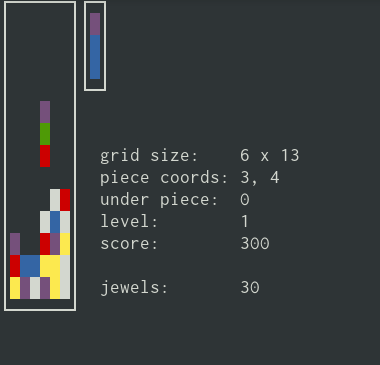
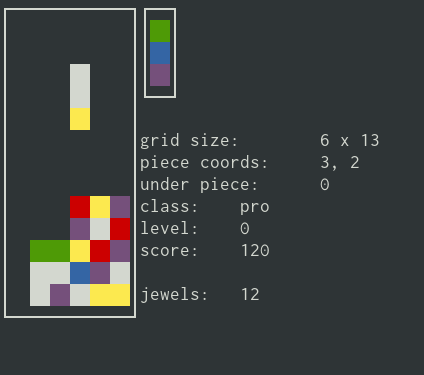
Double the graphics width

diff --git a/src/gfx.c b/src/gfx.c
@@ -1,136 +1,124 @@
 #include "gfx.h"
 
-WINDOW *setup_gfx(void)
-{
-	WINDOW *win = initscr();
-	if (win == NULL) {
-		perror("Couldn't create a window");
-		exit(EXIT_FAILURE);
-	}
-	cbreak();
-	noecho();
-	clear();
-	keypad(win, true);
-	nodelay(win, true);
-	curs_set(0);
+WINDOW *setup_gfx(void) {
+    WINDOW *win = initscr();
+    if (win == NULL) {
+        perror("Couldn't create a window");
+        exit(EXIT_FAILURE);
+    }
+    cbreak();
+    noecho();
+    clear();
+    keypad(win, true);
+    nodelay(win, true);
+    curs_set(0);
 
-	// Colors
-	start_color();
-	init_pair(0, COLOR_BLACK, COLOR_BLACK);
-	init_pair(1, COLOR_MAGENTA, COLOR_MAGENTA);
-	init_pair(2, COLOR_WHITE, COLOR_WHITE);
-	init_pair(3, COLOR_BLUE, COLOR_BLUE);
-	init_pair(4, COLOR_RED, COLOR_RED);
-	init_pair(5, COLOR_GREEN, COLOR_GREEN);
-	init_pair(6, COLOR_YELLOW, COLOR_YELLOW);
+    // Colors
+    start_color();
+    init_pair(0, COLOR_BLACK, COLOR_BLACK);
+    init_pair(1, COLOR_MAGENTA, COLOR_MAGENTA);
+    init_pair(2, COLOR_WHITE, COLOR_WHITE);
+    init_pair(3, COLOR_BLUE, COLOR_BLUE);
+    init_pair(4, COLOR_RED, COLOR_RED);
+    init_pair(5, COLOR_GREEN, COLOR_GREEN);
+    init_pair(6, COLOR_YELLOW, COLOR_YELLOW);
 
-	return win;
+    return win;
 }
 
-void teardown_gfx()
-{
-	endwin();
+void teardown_gfx() {
+    endwin();
 }
 
-static void draw_rect(int x1, int y1, int x2, int y2)
-{
-	mvhline(y1, x1, 0, x2 - x1);
-	mvhline(y2, x1, 0, x2 - x1);
-	mvvline(y1, x1, 0, y2 - y1);
-	mvvline(y1, x2, 0, y2 - y1);
-	mvaddch(y1, x1, ACS_ULCORNER);
-	mvaddch(y2, x1, ACS_LLCORNER);
-	mvaddch(y1, x2, ACS_URCORNER);
-	mvaddch(y2, x2, ACS_LRCORNER);
-	;
+static void draw_rect(int x1, int y1, int x2, int y2) {
+    mvhline(y1, x1, 0, x2 - x1);
+    mvhline(y2, x1, 0, x2 - x1);
+    mvvline(y1, x1, 0, y2 - y1);
+    mvvline(y1, x2, 0, y2 - y1);
+    mvaddch(y1, x1, ACS_ULCORNER);
+    mvaddch(y2, x1, ACS_LLCORNER);
+    mvaddch(y1, x2, ACS_URCORNER);
+    mvaddch(y2, x2, ACS_LRCORNER);
 }
 
-void draw_grid_jewels(const struct grid *gr, int x, int y)
-{
-	for (int i = 0; i < gr->size; i++) {
-		div_t d = div(i, gr->cols);
-		int jwl = gr->cells[i];
-		attron(COLOR_PAIR(jwl));
-		mvaddch(y + d.quot, x + d.rem, (jwl) ? jwl + '0' : ' ');
-		attroff(COLOR_PAIR(jwl));
-	}
+void draw_grid_jewels(const struct grid *gr, int x, int y) {
+    for (int i = 0; i < gr->size; i++) {
+        div_t d = div(i, gr->cols);
+        int jwl = gr->cells[i];
+        attron(COLOR_PAIR(jwl));
+        mvaddch(y + d.quot, x + d.rem * 2, (jwl) ? jwl + '0' : ' ');
+        mvaddch(y + d.quot, x + d.rem * 2 + 1, (jwl) ? jwl + '0' : ' ');
+        attroff(COLOR_PAIR(jwl));
+    }
 }
 
-void draw_grid(struct grid *gr, int offset_x, int offset_y)
-{
-	draw_rect(offset_x, offset_y, gr->cols + 1, gr->rows + 1);
+void draw_piece(struct piece *pc, int offset_x, int offset_y) {
+    for (int i = 0; i < PIECE_SIZE; i++) {
+        int y0 = pc->row + i;
+        if (y0 >= -1) {
+            enum color jwl = pc->colors[i];
+            attron(COLOR_PAIR(jwl));
+            mvaddch(offset_y + y0, offset_x + pc->col * 2, jwl + '0');
+            mvaddch(offset_y + y0, offset_x + pc->col * 2 + 1, jwl + '0');
+            attroff(COLOR_PAIR(jwl));
+        }
+    }
 }
 
-void draw_piece(struct piece *pc, int offset_x, int offset_y)
-{
-	for (int i = 0; i < PIECE_SIZE; i++) {
-		int y0 = pc->row + i;
-		if (y0 >= -1) {
-			enum color jwl = pc->colors[i];
-			attron(COLOR_PAIR(jwl));
-			mvaddch(offset_y + y0, offset_x + pc->col, jwl + '0');
-			attroff(COLOR_PAIR(jwl));
-		}
-	}
+void draw_frame(struct game *gm, int offset_x, int offset_y) {
+    draw_rect(offset_x, offset_y, gm->grid->cols * 2 + 1,
+              gm->grid->rows + 1);
+    int x = (offset_x + gm->grid->cols + 1) * 2;
+    draw_rect(x, offset_y, x + 2 + 1, offset_y + 4);
 }
 
-void draw_frame(struct game *gm, int offset_x, int offset_y)
-{
-	int x = offset_x + gm->grid->cols + 2;
-	draw_grid(gm->grid, offset_x, offset_y);
-	draw_rect(x, offset_y, x + 2, offset_y + 4);
+void draw_game(struct game *gm, int offset_x, int offset_y) {
+    struct grid *gr = gm->grid;
+
+    draw_grid_jewels(gr, offset_x + 1, offset_y + 1);
+    draw_piece(&gm->next_piece, offset_x + gr->cols * 2 + 1 + 2, offset_y + 1);
 }
 
-void draw_game(struct game *gm, int offset_x, int offset_y)
-{
-	struct grid *gr = gm->grid;
-
-	draw_grid_jewels(gr, offset_x + 1, offset_y + 1);
-	draw_piece(&gm->next_piece, offset_x + gr->cols + 3, offset_y + 1);
+void draw_stars(const uint8_t *result, struct grid *gr, int x, int y) {
+    for (int i = 0; i < gr->size; i++) {
+        div_t d = div(i, gr->cols);
+        if (result[i]) {
+            mvaddch(y + d.quot + 1, x + d.rem * 2 + 1, '[');
+            mvaddch(y + d.quot + 1, x + d.rem * 2 + 2, ']');
+        }
+    }
 }
 
-void draw_stars(const uint8_t *result, struct grid *gr, int x, int y)
-{
-	for (int i = 0; i < gr->size; i++) {
-		div_t d = div(i, gr->cols);
-		int clr = result[i];
-		if (clr) {
-			mvaddch(y + d.quot + 1, x + d.rem + 1, '*');
-		}
-	}
-}
+void draw_debug(struct game *g, int x, int y) {
+    struct piece pc = g->current_piece;
 
-void draw_debug(struct game *g, int x, int y)
-{
-	struct piece pc = g->current_piece;
-
-	mvprintw(y, x, "grid size:\t%d x %d ", g->grid->cols, g->grid->rows);
-	mvprintw(y + 1, x, "piece coords:\t%d, %d ", pc.col, pc.row);
-	int idx = g->grid->cols * (pc.row + PIECE_SIZE) + pc.col;
-	if (idx > 0 && idx < g->grid->cols * g->grid->rows) {
-		mvprintw(y + 2, x, "under piece:\t%d ", g->grid->cells[idx]);
-	}
-	switch ((enum game_class)g->color_max) {
-	case CLASS_NOVICE:
-		mvprintw(y + 3, x, "class:\tnovice");
-		break;
-	case CLASS_AMATEUR:
-		mvprintw(y + 3, x, "class:\tamateur");
-		break;
-	case CLASS_PRO:
-		mvprintw(y + 3, x, "class:\tpro");
-		break;
-	default:
-		mvprintw(y + 3, x, "class:\t???");
-		break;
-	}
-	mvprintw(y + 4, x, "level:\t%hu ", (unsigned short)g->level);
-	mvprintw(y + 5, x, "score:\t%lu ", (unsigned long)g->score);
-	if (g->last_score > 0) {
-		mvprintw(y + 6, x, "      \t+%lu ",
-			 (unsigned long)g->last_score);
-	} else {
-		mvprintw(y + 6, x, "      \t     ");
-	}
-	mvprintw(y + 7, x, "jewels:\t%lu ", (unsigned long)g->jewels_removed);
+    mvprintw(y, x, "grid size:\t%d x %d ", g->grid->cols, g->grid->rows);
+    mvprintw(y + 1, x, "piece coords:\t%d, %d ", pc.col, pc.row);
+    int idx = g->grid->cols * (pc.row + PIECE_SIZE) + pc.col;
+    if (idx > 0 && idx < g->grid->cols * g->grid->rows) {
+        mvprintw(y + 2, x, "under piece:\t%d ", g->grid->cells[idx]);
+    }
+    switch ((enum game_class) g->color_max) {
+        case CLASS_NOVICE:
+            mvprintw(y + 3, x, "class:\tnovice");
+            break;
+        case CLASS_AMATEUR:
+            mvprintw(y + 3, x, "class:\tamateur");
+            break;
+        case CLASS_PRO:
+            mvprintw(y + 3, x, "class:\tpro");
+            break;
+        default:
+            mvprintw(y + 3, x, "class:\t???");
+            break;
+    }
+    mvprintw(y + 4, x, "level:\t%hu ", (unsigned short) g->level);
+    mvprintw(y + 5, x, "score:\t%lu ", (unsigned long) g->score);
+    if (g->last_score > 0) {
+        mvprintw(y + 6, x, "      \t+%lu ",
+                 (unsigned long) g->last_score);
+    } else {
+        mvprintw(y + 6, x, "      \t     ");
+    }
+    mvprintw(y + 7, x, "jewels:\t%lu ", (unsigned long) g->jewels_removed);
 }

diff --git a/src/main.c b/src/main.c
@@ -115,8 +115,6 @@ static score_t run(enum game_class cls)
 	}
 	game_init(gm, GAME_DEFAULT_LEVEL, cls);
 
-	draw_frame(gm, 0, 0);
-
 	struct timeval time_start, time_end;
 	uint8_t timer = 1;
 	uint8_t tick_time = get_tick_time(gm->level);
@@ -141,12 +139,13 @@ static score_t run(enum game_class cls)
 		// Render game
 		draw_frame(gm, 0, 0);
 		draw_game(gm, 0, 0);
+
 		if (gm->current_piece.status == PERSISTED) {
 			draw_stars(tmp_res, gm->grid, 0, 0);
 		} else {
 			draw_piece(&gm->current_piece, 1, 1);
 		}
-		draw_debug(gm, 9, 6);
+		draw_debug(gm, gm->grid->cols * 2 + 2, 6);
 		refresh();
 
 		// Time End

diff --git a/src/gfx.h b/src/gfx.h
@@ -12,8 +12,6 @@ void teardown_gfx();
 
 void draw_debug(struct game *g, int x, int y);
 
-void draw_grid(struct grid *gr, int offset_x, int offset_y);
-
 void draw_frame(struct game *g, int offset_x, int offset_y);
 
 void draw_game(struct game *g, int offset_x, int offset_y);
